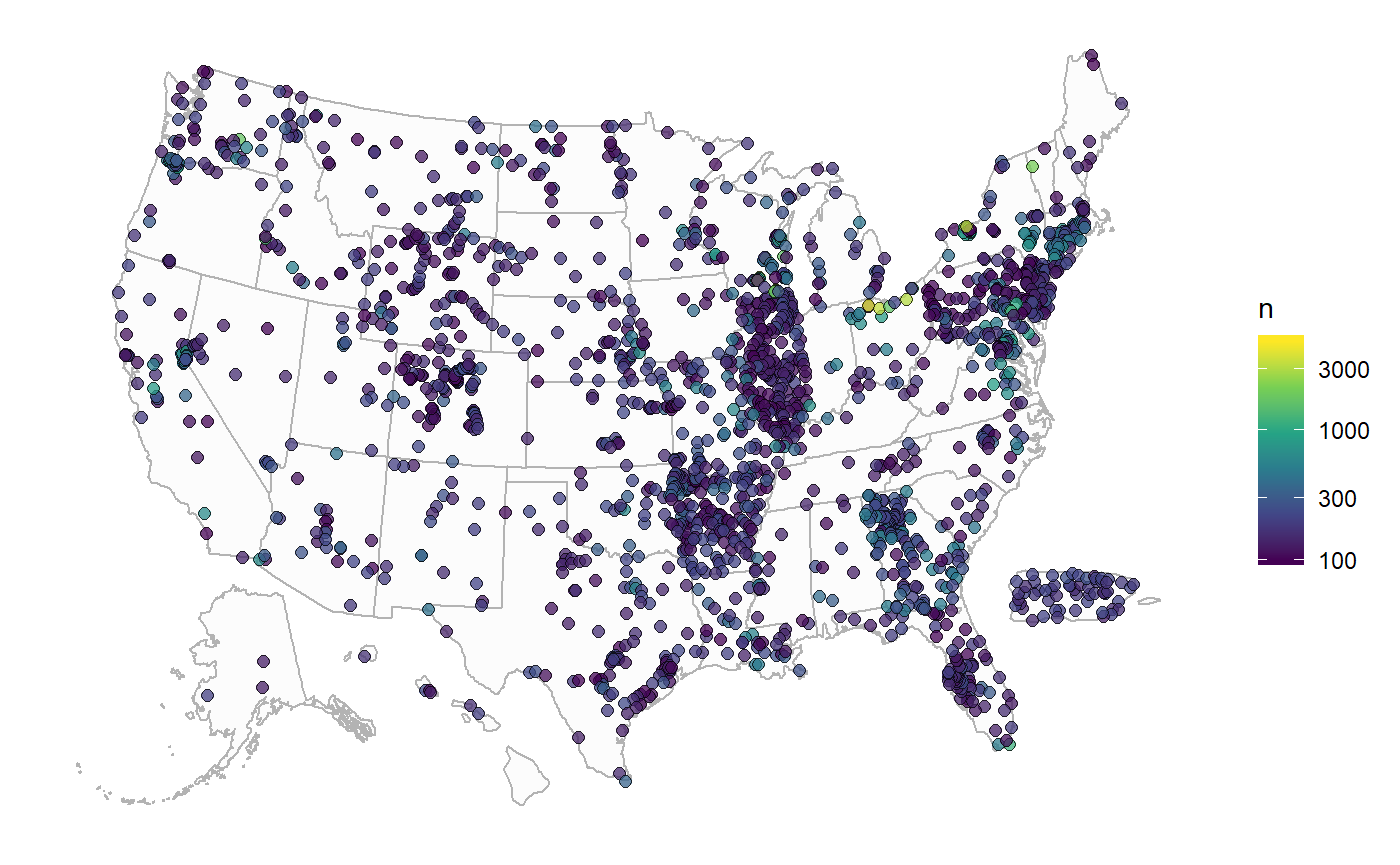
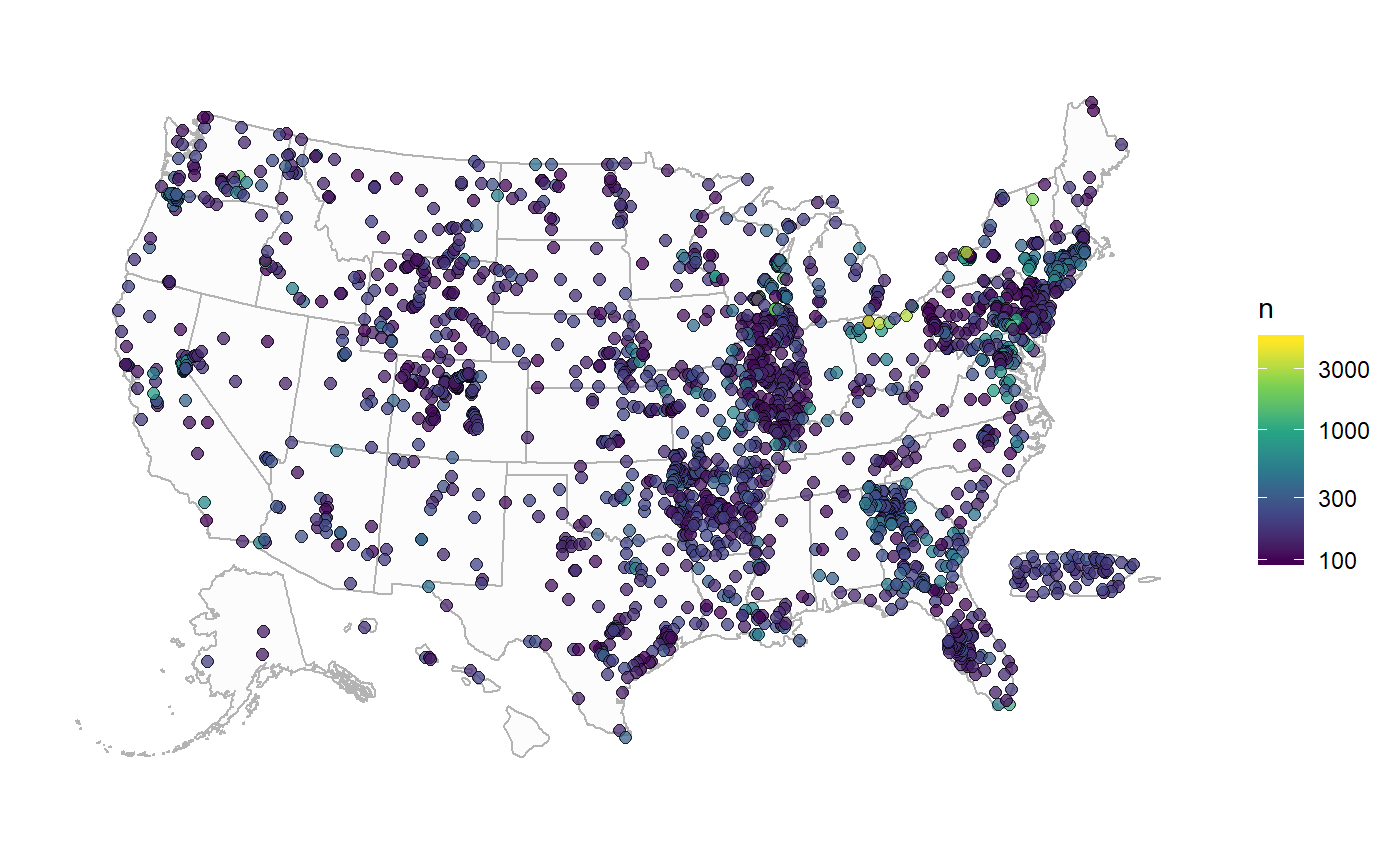
Review updates

Changed region(s): [[0.0614, 0.0624, 0.8293, 0.9364], [0.1229, 0.5618, 0.1536, 0.6243], [0.0921, 0.5306, 0.1229, 0.5618]]

diff --git a/docs/articles/usMaps.html b/docs/articles/usMaps.html
@@ -44,7 +44,7 @@
       </button>
       <span class="navbar-brand">
         <a class="navbar-link" href="../index.html">dataRetrieval</a>
-        <span class="version label label-default" data-toggle="tooltip" data-placement="bottom" title="Released version">2.7.4.9000</span>
+        <span class="version label label-default" data-toggle="tooltip" data-placement="bottom" title="Released version">2.7.4.9001</span>
       </span>
     </div>
 
@@ -121,6 +121,7 @@
 <a class="sourceLine" id="cb1-8" title="8">  map.sp.t &lt;-<span class="st"> </span>sp<span class="op">::</span><span class="kw"><a href="https://www.rdocumentation.org/packages/sp/topics/spTransform">spTransform</a></span>(map.sp, sp<span class="op">::</span><span class="kw"><a href="https://www.rdocumentation.org/packages/sp/topics/CRS-class">CRS</a></span>(proj.string))</a>
 <a class="sourceLine" id="cb1-9" title="9">  <span class="kw"><a href="https://www.rdocumentation.org/packages/base/topics/function">return</a></span>(map.sp.t)</a>
 <a class="sourceLine" id="cb1-10" title="10">}</a></code></pre></div>
+<p>Next, we have a function that scales, shifts, and rotates the “sp” objects:</p>
 <div class="sourceCode" id="cb2"><pre class="sourceCode r"><code class="sourceCode r"><a class="sourceLine" id="cb2-1" title="1">shift_sp &lt;-<span class="st"> </span><span class="cf">function</span>(sp, scale, shift, </a>
 <a class="sourceLine" id="cb2-2" title="2">                     <span class="dt">rotate =</span> <span class="dv">0</span>, <span class="dt">ref=</span>sp, </a>
 <a class="sourceLine" id="cb2-3" title="3">                     <span class="dt">proj.string=</span><span class="ot">NULL</span>, <span class="dt">row.names=</span><span class="ot">NULL</span>){</a>
@@ -148,6 +149,7 @@
 <a class="sourceLine" id="cb2-25" title="25">  }</a>
 <a class="sourceLine" id="cb2-26" title="26">  <span class="kw"><a href="https://www.rdocumentation.org/packages/base/topics/function">return</a></span>(obj)</a>
 <a class="sourceLine" id="cb2-27" title="27">}</a></code></pre></div>
+<p>For the United States, this function will get call the <code>shift_sp</code> function on the state/territory boundaries.</p>
 <div class="sourceCode" id="cb3"><pre class="sourceCode r"><code class="sourceCode r"><a class="sourceLine" id="cb3-1" title="1">reset_states &lt;-<span class="st"> </span><span class="cf">function</span>(move_variables, stuff_to_move){</a>
 <a class="sourceLine" id="cb3-2" title="2">  states.out &lt;-<span class="st"> </span><span class="kw">to_sp</span>(<span class="st">"state"</span>)</a>
 <a class="sourceLine" id="cb3-3" title="3">  conus &lt;-<span class="st"> </span>states.out</a>
@@ -157,10 +159,10 @@
 <a class="sourceLine" id="cb3-7" title="7">                                   <span class="dt">proj.string =</span> sp<span class="op">::</span><span class="kw"><a href="https://www.rdocumentation.org/packages/sp/topics/is.projected">proj4string</a></span>(conus),</a>
 <a class="sourceLine" id="cb3-8" title="8">                                   <span class="dt">row.names =</span> i))</a>
 <a class="sourceLine" id="cb3-9" title="9">    states.out &lt;-<span class="st"> </span><span class="kw"><a href="https://www.rdocumentation.org/packages/base/topics/cbind">rbind</a></span>(shifted, states.out, <span class="dt">makeUniqueIDs =</span> <span class="ot">TRUE</span>)</a>
-<a class="sourceLine" id="cb3-10" title="10">    </a>
-<a class="sourceLine" id="cb3-11" title="11">  }</a>
-<a class="sourceLine" id="cb3-12" title="12">  <span class="kw"><a href="https://www.rdocumentation.org/packages/base/topics/function">return</a></span>(states.out)</a>
-<a class="sourceLine" id="cb3-13" title="13">}</a></code></pre></div>
+<a class="sourceLine" id="cb3-10" title="10">  }</a>
+<a class="sourceLine" id="cb3-11" title="11">  <span class="kw"><a href="https://www.rdocumentation.org/packages/base/topics/function">return</a></span>(states.out)</a>
+<a class="sourceLine" id="cb3-12" title="12">}</a></code></pre></div>
+<p>This function will move the points in the states/territories.</p>
 <div class="sourceCode" id="cb4"><pre class="sourceCode r"><code class="sourceCode r"><a class="sourceLine" id="cb4-1" title="1">reset_points &lt;-<span class="st"> </span><span class="cf">function</span>(x, move_variables,stuff_to_move,</a>
 <a class="sourceLine" id="cb4-2" title="2">                          <span class="dt">scale_by_color =</span> <span class="ot">TRUE</span>, </a>
 <a class="sourceLine" id="cb4-3" title="3">                          <span class="dt">scale_by_size =</span> <span class="ot">FALSE</span>){</a>
@@ -219,40 +221,41 @@
 <a class="sourceLine" id="cb5-20" title="20"><span class="st">    </span><span class="kw">theme_minimal</span>() <span class="op">+</span></a>
 <a class="sourceLine" id="cb5-21" title="21"><span class="st">    </span><span class="kw">theme</span>(<span class="dt">panel.grid =</span> <span class="kw">element_blank</span>(),</a>
 <a class="sourceLine" id="cb5-22" title="22">          <span class="dt">axis.text =</span> <span class="kw">element_blank</span>(),</a>
-<a class="sourceLine" id="cb5-23" title="23">          <span class="dt">axis.title =</span> <span class="kw">element_blank</span>())</a>
-<a class="sourceLine" id="cb5-24" title="24">  </a>
-<a class="sourceLine" id="cb5-25" title="25">  <span class="cf">if</span>(scale_by_color <span class="op">&amp;</span><span class="st"> </span>scale_by_size){</a>
-<a class="sourceLine" id="cb5-26" title="26">    gsMap &lt;-<span class="st"> </span>gsMap <span class="op">+</span></a>
-<a class="sourceLine" id="cb5-27" title="27"><span class="st">      </span><span class="kw">geom_point</span>(<span class="dt">data =</span> sites.df, </a>
-<a class="sourceLine" id="cb5-28" title="28">                 <span class="kw">aes</span>(<span class="dt">x =</span> coords.x1, <span class="dt">y=</span>coords.x2, </a>
-<a class="sourceLine" id="cb5-29" title="29">                     <span class="dt">fill =</span> n, <span class="dt">size =</span> n),</a>
-<a class="sourceLine" id="cb5-30" title="30">                 <span class="dt">alpha =</span> alpha_set,</a>
-<a class="sourceLine" id="cb5-31" title="31">                 <span class="dt">color=</span><span class="st">"black"</span>,<span class="dt">pch=</span><span class="dv">21</span>) <span class="op">+</span></a>
-<a class="sourceLine" id="cb5-32" title="32"><span class="st">      </span><span class="kw">scale_fill_continuous</span>(<span class="dt">type =</span> <span class="st">"viridis"</span>, <span class="dt">trans =</span> <span class="st">"log10"</span>)</a>
-<a class="sourceLine" id="cb5-33" title="33">  } <span class="cf">else</span> <span class="cf">if</span> (scale_by_color){</a>
-<a class="sourceLine" id="cb5-34" title="34">    gsMap &lt;-<span class="st"> </span>gsMap <span class="op">+</span></a>
-<a class="sourceLine" id="cb5-35" title="35"><span class="st">      </span><span class="kw">geom_point</span>(<span class="dt">data =</span> sites.df, </a>
-<a class="sourceLine" id="cb5-36" title="36">                 <span class="kw">aes</span>(<span class="dt">x =</span> coords.x1, <span class="dt">y=</span>coords.x2, </a>
-<a class="sourceLine" id="cb5-37" title="37">                     <span class="dt">fill =</span> n), </a>
-<a class="sourceLine" id="cb5-38" title="38">                 <span class="dt">alpha =</span> alpha_set,</a>
-<a class="sourceLine" id="cb5-39" title="39">                 <span class="dt">size =</span> pt_size, <span class="dt">color=</span><span class="st">"black"</span>,<span class="dt">pch=</span><span class="dv">21</span>) <span class="op">+</span></a>
-<a class="sourceLine" id="cb5-40" title="40"><span class="st">      </span><span class="kw">scale_fill_continuous</span>(<span class="dt">type =</span> <span class="st">"viridis"</span>, <span class="dt">trans =</span> <span class="st">"log10"</span>)</a>
-<a class="sourceLine" id="cb5-41" title="41">  } <span class="cf">else</span> <span class="cf">if</span> (scale_by_size){</a>
-<a class="sourceLine" id="cb5-42" title="42">    gsMap &lt;-<span class="st"> </span>gsMap <span class="op">+</span></a>
-<a class="sourceLine" id="cb5-43" title="43"><span class="st">      </span><span class="kw">geom_point</span>(<span class="dt">data =</span> sites.df, </a>
-<a class="sourceLine" id="cb5-44" title="44">                 <span class="kw">aes</span>(<span class="dt">x =</span> coords.x1, <span class="dt">y=</span>coords.x2, </a>
-<a class="sourceLine" id="cb5-45" title="45">                     <span class="dt">size =</span> n), <span class="dt">fill=</span>base_fill, </a>
-<a class="sourceLine" id="cb5-46" title="46">                 <span class="dt">alpha =</span> alpha_set,</a>
-<a class="sourceLine" id="cb5-47" title="47">                 <span class="dt">color=</span><span class="st">"black"</span>,<span class="dt">pch=</span><span class="dv">21</span>) </a>
-<a class="sourceLine" id="cb5-48" title="48">  } <span class="cf">else</span> {</a>
-<a class="sourceLine" id="cb5-49" title="49">    gsMap &lt;-<span class="st"> </span>gsMap <span class="op">+</span></a>
-<a class="sourceLine" id="cb5-50" title="50"><span class="st">      </span><span class="kw">geom_point</span>(<span class="dt">data =</span> sites.df, </a>
-<a class="sourceLine" id="cb5-51" title="51">                 <span class="kw">aes</span>(<span class="dt">x =</span> coords.x1, <span class="dt">y=</span>coords.x2), </a>
-<a class="sourceLine" id="cb5-52" title="52">                 <span class="dt">size =</span> pt_size, <span class="dt">color=</span><span class="st">"black"</span>,<span class="dt">pch=</span><span class="dv">21</span>,</a>
-<a class="sourceLine" id="cb5-53" title="53">                 <span class="dt">fill=</span>base_fill, <span class="dt">alpha =</span> alpha_set)</a>
-<a class="sourceLine" id="cb5-54" title="54">  }</a>
-<a class="sourceLine" id="cb5-55" title="55">  <span class="kw"><a href="https://www.rdocumentation.org/packages/base/topics/function">return</a></span>(gsMap)</a>
-<a class="sourceLine" id="cb5-56" title="56">}</a></code></pre></div>
+<a class="sourceLine" id="cb5-23" title="23">          <span class="dt">axis.title =</span> <span class="kw">element_blank</span>()) <span class="op">+</span></a>
+<a class="sourceLine" id="cb5-24" title="24"><span class="st">    </span><span class="kw">coord_fixed</span>()</a>
+<a class="sourceLine" id="cb5-25" title="25">  </a>
+<a class="sourceLine" id="cb5-26" title="26">  <span class="cf">if</span>(scale_by_color <span class="op">&amp;</span><span class="st"> </span>scale_by_size){</a>
+<a class="sourceLine" id="cb5-27" title="27">    gsMap &lt;-<span class="st"> </span>gsMap <span class="op">+</span></a>
+<a class="sourceLine" id="cb5-28" title="28"><span class="st">      </span><span class="kw">geom_point</span>(<span class="dt">data =</span> sites.df, </a>
+<a class="sourceLine" id="cb5-29" title="29">                 <span class="kw">aes</span>(<span class="dt">x =</span> coords.x1, <span class="dt">y=</span>coords.x2, </a>
+<a class="sourceLine" id="cb5-30" title="30">                     <span class="dt">fill =</span> n, <span class="dt">size =</span> n),</a>
+<a class="sourceLine" id="cb5-31" title="31">                 <span class="dt">alpha =</span> alpha_set,</a>
+<a class="sourceLine" id="cb5-32" title="32">                 <span class="dt">color=</span><span class="st">"black"</span>,<span class="dt">pch=</span><span class="dv">21</span>) <span class="op">+</span></a>
+<a class="sourceLine" id="cb5-33" title="33"><span class="st">      </span><span class="kw">scale_fill_continuous</span>(<span class="dt">type =</span> <span class="st">"viridis"</span>, <span class="dt">trans =</span> <span class="st">"log10"</span>)</a>
+<a class="sourceLine" id="cb5-34" title="34">  } <span class="cf">else</span> <span class="cf">if</span> (scale_by_color){</a>
+<a class="sourceLine" id="cb5-35" title="35">    gsMap &lt;-<span class="st"> </span>gsMap <span class="op">+</span></a>
+<a class="sourceLine" id="cb5-36" title="36"><span class="st">      </span><span class="kw">geom_point</span>(<span class="dt">data =</span> sites.df, </a>
+<a class="sourceLine" id="cb5-37" title="37">                 <span class="kw">aes</span>(<span class="dt">x =</span> coords.x1, <span class="dt">y=</span>coords.x2, </a>
+<a class="sourceLine" id="cb5-38" title="38">                     <span class="dt">fill =</span> n), </a>
+<a class="sourceLine" id="cb5-39" title="39">                 <span class="dt">alpha =</span> alpha_set,</a>
+<a class="sourceLine" id="cb5-40" title="40">                 <span class="dt">size =</span> pt_size, <span class="dt">color=</span><span class="st">"black"</span>,<span class="dt">pch=</span><span class="dv">21</span>) <span class="op">+</span></a>
+<a class="sourceLine" id="cb5-41" title="41"><span class="st">      </span><span class="kw">scale_fill_continuous</span>(<span class="dt">type =</span> <span class="st">"viridis"</span>, <span class="dt">trans =</span> <span class="st">"log10"</span>)</a>
+<a class="sourceLine" id="cb5-42" title="42">  } <span class="cf">else</span> <span class="cf">if</span> (scale_by_size){</a>
+<a class="sourceLine" id="cb5-43" title="43">    gsMap &lt;-<span class="st"> </span>gsMap <span class="op">+</span></a>
+<a class="sourceLine" id="cb5-44" title="44"><span class="st">      </span><span class="kw">geom_point</span>(<span class="dt">data =</span> sites.df, </a>
+<a class="sourceLine" id="cb5-45" title="45">                 <span class="kw">aes</span>(<span class="dt">x =</span> coords.x1, <span class="dt">y=</span>coords.x2, </a>
+<a class="sourceLine" id="cb5-46" title="46">                     <span class="dt">size =</span> n), <span class="dt">fill=</span>base_fill, </a>
+<a class="sourceLine" id="cb5-47" title="47">                 <span class="dt">alpha =</span> alpha_set,</a>
+<a class="sourceLine" id="cb5-48" title="48">                 <span class="dt">color=</span><span class="st">"black"</span>,<span class="dt">pch=</span><span class="dv">21</span>) </a>
+<a class="sourceLine" id="cb5-49" title="49">  } <span class="cf">else</span> {</a>
+<a class="sourceLine" id="cb5-50" title="50">    gsMap &lt;-<span class="st"> </span>gsMap <span class="op">+</span></a>
+<a class="sourceLine" id="cb5-51" title="51"><span class="st">      </span><span class="kw">geom_point</span>(<span class="dt">data =</span> sites.df, </a>
+<a class="sourceLine" id="cb5-52" title="52">                 <span class="kw">aes</span>(<span class="dt">x =</span> coords.x1, <span class="dt">y=</span>coords.x2), </a>
+<a class="sourceLine" id="cb5-53" title="53">                 <span class="dt">size =</span> pt_size, <span class="dt">color=</span><span class="st">"black"</span>,<span class="dt">pch=</span><span class="dv">21</span>,</a>
+<a class="sourceLine" id="cb5-54" title="54">                 <span class="dt">fill=</span>base_fill, <span class="dt">alpha =</span> alpha_set)</a>
+<a class="sourceLine" id="cb5-55" title="55">  }</a>
+<a class="sourceLine" id="cb5-56" title="56">  <span class="kw"><a href="https://www.rdocumentation.org/packages/base/topics/function">return</a></span>(gsMap)</a>
+<a class="sourceLine" id="cb5-57" title="57">}</a></code></pre></div>
 <p>We’ve fiddled with the scaling, shifting, and rotating to:</p>
 <div class="sourceCode" id="cb6"><pre class="sourceCode r"><code class="sourceCode r"><a class="sourceLine" id="cb6-1" title="1">move_variables &lt;-<span class="st"> </span><span class="kw"><a href="https://www.rdocumentation.org/packages/base/topics/list">list</a></span>(</a>
 <a class="sourceLine" id="cb6-2" title="2">  <span class="dt">AK =</span> <span class="kw"><a href="https://www.rdocumentation.org/packages/base/topics/list">list</a></span>(<span class="dt">scale=</span><span class="fl">0.47</span>, <span class="dt">shift =</span> <span class="kw"><a href="https://www.rdocumentation.org/packages/base/topics/c">c</a></span>(<span class="dv">90</span>,<span class="op">-</span><span class="dv">465</span>), <span class="dt">rotate=</span><span class="op">-</span><span class="dv">50</span>),</a>
